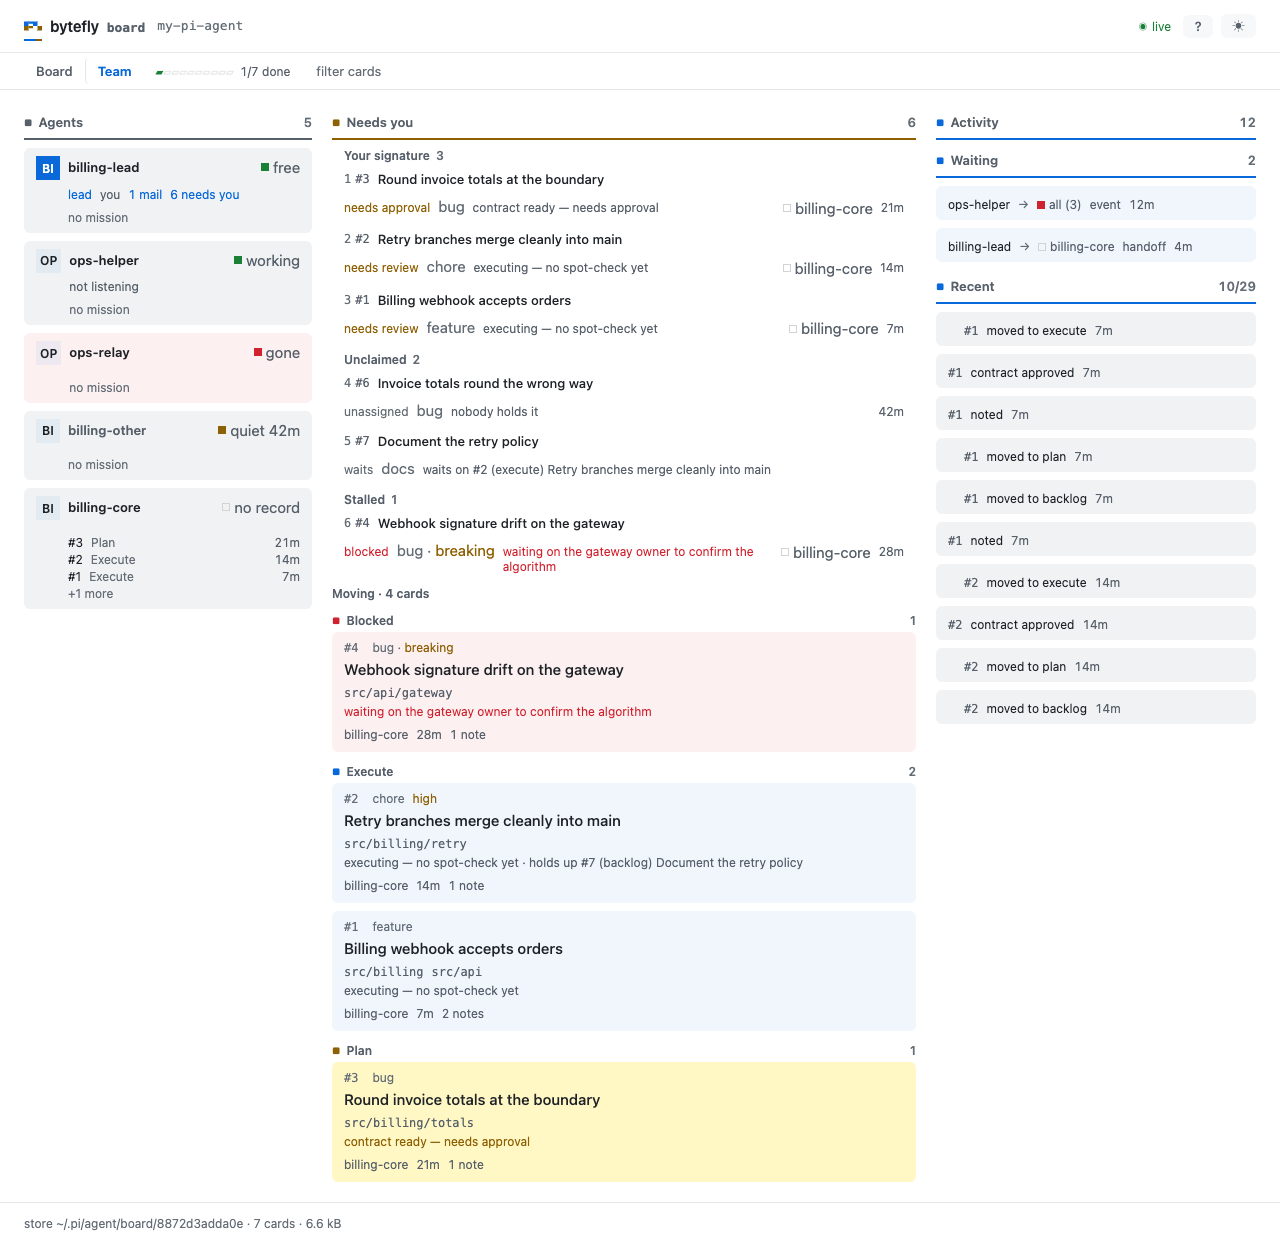
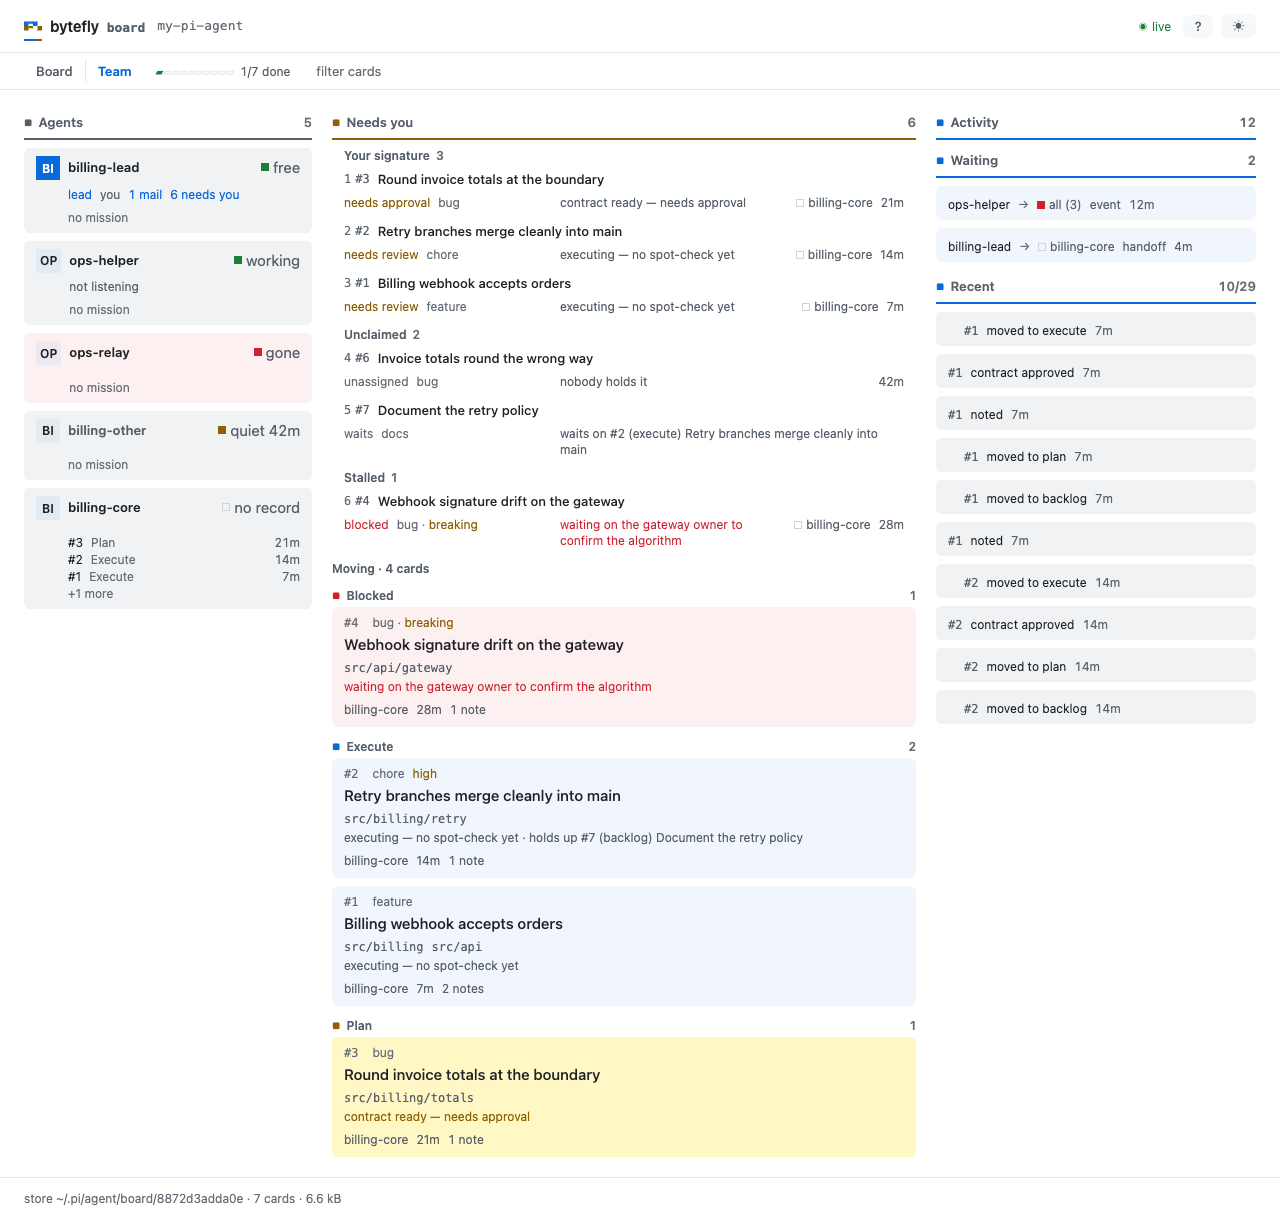
board: one type on the ask row's facts, and a column for the reason
The facts line mixed two sizes: the pill, reason and age were 12px while the kind and the owner
inherited the column's 15px/22.5, so a row carried three things at title size, its sentence was the
smallest, and a one-line row measured 43px without a kind or an owner, 51 with a kind and 52 with
one. `.board-queue__facts` sets 12px/16 itself now, and the pill and the reason take that line
height too (their font shorthand reset it, which split the rhythm again) — every one-line row is
44px whatever optional parts a card has.

The reason's left edge was a function of how wide the pill and kind happened to be: 138px apart on
two rows. They now sit in a `board-queue__labels` track of 13rem, measured from the widest pair at
12px, so the reason starts at one x; a pair wider than the track shrinks it rather than being cut,
and the reason keeps `flex:1 1 0` so it cannot wrap away from the labels' line. At ≤560 the track
drops and the reason takes a full line, where it used to clamp a 29-character sentence into 99px.

The claims live in a new suite, queue-row-facts.test.ts: one type, one height, the reason's start
within 4px at 1280 and 1440, and the full-line reason at 420. queue-bands.test.ts was already at
396 lines of the 400-line bar, so the split is the bar's answer rather than a second suite's taste.
team.png is recaptured at 1280x1220 and the alt re-read from it.

diff --git a/extensions/board/view/queue-row-facts.test.ts b/extensions/board/view/queue-row-facts.test.ts
@@ -1,0 +1,153 @@
+/**
+ * The ask row's facts line: one type, one height, and a column the reason starts at.
+ *
+ * The row review measured the fault this suite holds fixed: the pill, reason and age were 12px
+ * while the kind and the owner inherited the column's 15px, so a row had three things at title
+ * size and its sentence was the smallest; a one-line row was 43, 51 or 52px depending on which
+ * optional parts a card carried; and the reason followed a variable-width pill and kind, starting
+ * 138px apart on two rows. Everything here is computed off the page — sizes, boxes, the reason's
+ * left edge — so a stylesheet that looks right and draws wrong fails.
+ *
+ * It needs a browser; where the machine has none the suite skips, naming PI_CHROME.
+ */
+
+import { afterAll, beforeAll, describe, expect, test } from "bun:test";
+import type { Page } from "playwright-core";
+import { type Doc } from "../../../test/helpers/board-dom.ts";
+import { LEAD, seedWorkingBoard } from "../../../test/helpers/board-fixture.ts";
+import {
+	BOARD_CHROME as CHROME,
+	BOARD_PAINT_MS as PAINT_MS,
+	type BoardBrowser,
+	drawn,
+	openBoardBrowser,
+} from "../../../test/helpers/board-browser.ts";
+import { makeClock } from "../../../test/helpers/clock.ts";
+
+/** A fixed clock: the page prints ages, and a test that read the wall clock would drift. */
+const clock = makeClock(1_760_000_000_000);
+
+/** One boot and one teardown for the suite. */
+const HOOK_MS = 30_000;
+
+/** The sliver of an element this suite measures; this project's TypeScript has no DOM lib. */
+interface Boxed {
+	getBoundingClientRect(): { x: number; top: number; width: number; height: number };
+	querySelector(selector: string): Boxed | null;
+	textContent: string | null;
+	getAttribute?(name: string): string | null;
+}
+
+/** One row's facts line: the row's box, the reason's box, and every part's computed type size. */
+interface Facts {
+	card: string;
+	row: { w: number; h: number };
+	why: { x: number; w: number; h: number } | null;
+	/** Each part's font size, or absent when the card carries no such part. */
+	sizes: { pill: string; kind: string; why: string; owner: string; stamp: string };
+}
+
+/**
+ * Every row's facts line, read once.
+ *
+ * The fixture carries the shapes that used to disagree: an executing card with a type, a
+ * breaking marker and an owner; unassigned cards with no type and no owner; a blocked card with
+ * a danger reason; and a wait whose reason is long enough to clamp.
+ */
+const factsOf = (page: Page): Promise<Facts[]> =>
+	page.evaluate(() => {
+		const document = (globalThis as unknown as { document: Doc }).document;
+		const style = (globalThis as unknown as { getComputedStyle(n: unknown): { fontSize: string } }).getComputedStyle;
+		const box = (node: Boxed) => node.getBoundingClientRect();
+		const round = (value: number) => Math.round(value * 10) / 10;
+		return Array.from(document.querySelectorAll("#board-team .board-queue__row"), (node) => {
+			const row = node as unknown as Boxed;
+			const why = row.querySelector(".board-queue__why");
+			const size = (selector: string) => {
+				const found = row.querySelector(selector);
+				return found === null ? "" : style(found).fontSize;
+			};
+			return {
+				card: row.getAttribute?.("data-card") ?? "",
+				row: { w: round(box(row).width), h: round(box(row).height) },
+				why:
+					why === null ? null : { x: Math.round(box(why).x), w: Math.round(box(why).width), h: round(box(why).height) },
+				sizes: {
+					pill: size(".bf-tag"),
+					kind: size(".bf-row__kind"),
+					why: size(".board-queue__why"),
+					owner: size(".board-owner"),
+					stamp: size(".board-stamp"),
+				},
+			};
+		});
+	}) as Promise<Facts[]>;
+
+let board: BoardBrowser;
+
+describe.skipIf(CHROME === undefined)("the ask row's facts", () => {
+	beforeAll(async () => {
+		board = await openBoardBrowser({ lead: LEAD.label, now: clock.now, seed: seedWorkingBoard });
+	}, HOOK_MS);
+
+	afterAll(async () => {
+		await board?.close();
+	}, HOOK_MS);
+
+	for (const width of [1280, 1440] as const) {
+		test(`sets one type on the facts line at ${width}`, async () => {
+			const page = await board.reuse();
+			await page.click("#tab-team");
+			await page.waitForSelector("#board-team .board-queue__row", { timeout: PAINT_MS });
+			await page.setViewportSize({ width, height: 900 });
+			await drawn(page);
+			const rows = await factsOf(page);
+			expect(rows.length).toBeGreaterThan(2);
+			for (const row of rows) {
+				// Every part a card carries is the same size; a part it does not carry is absent.
+				const sizes = Object.entries(row.sizes).filter(([, size]) => size !== "");
+				expect(sizes.length, `card ${row.card}`).toBeGreaterThan(1);
+				for (const [part, size] of sizes) expect(size, `card ${row.card} ${part}`).toBe("12px");
+			}
+			// A one-line reason makes every row the same height, whatever optional parts it has:
+			// before the fix these were 43 (neither), 51 (a kind) and 52 (an owner).
+			const oneLine = rows.filter((row) => row.why !== null && row.why.h <= 16);
+			expect(oneLine.length, `one-line rows at ${width}`).toBeGreaterThan(1);
+			const heights = [...new Set(oneLine.map((row) => row.row.h))];
+			expect(heights, `one-line heights at ${width}`).toEqual([44]);
+		});
+
+		test(`starts every reason at one x at ${width}`, async () => {
+			const page = await board.reuse();
+			await page.click("#tab-team");
+			await page.waitForSelector("#board-team .board-queue__row", { timeout: PAINT_MS });
+			await page.setViewportSize({ width, height: 900 });
+			await drawn(page);
+			const xs = (await factsOf(page)).flatMap((row) => (row.why === null ? [] : [row.why.x]));
+			expect(xs.length).toBeGreaterThan(2);
+			// The labels are a track, so the sentence's left edge is a column rather than a function
+			// of how wide the pill and the kind happen to be (the spread was 138px before this).
+			expect(Math.max(...xs) - Math.min(...xs), `reason starts at ${width}`).toBeLessThanOrEqual(4);
+		});
+	}
+
+	test("gives a phone the reason a full line", async () => {
+		const page = await board.reuse();
+		await page.click("#tab-team");
+		await page.waitForSelector("#board-team .board-queue__row", { timeout: PAINT_MS });
+		await page.setViewportSize({ width: 420, height: 900 });
+		await drawn(page);
+		const rows = await factsOf(page);
+		const withReason = rows.filter((row) => row.why !== null);
+		expect(withReason.length).toBeGreaterThan(1);
+		for (const row of withReason) {
+			// The labels and the age keep the first line and the sentence takes the width beneath it,
+			// so its box is the row's width rather than the strip the labels left over.
+			expect(Math.abs((row.why?.w ?? 0) - row.row.w), `card ${row.card}`).toBeLessThanOrEqual(1);
+		}
+		// The signature row's reason is the 29-character sentence that used to clamp into two 99px
+		// lines: on its own line it is one.
+		const signature = rows.find((row) => row.sizes.kind !== "");
+		expect(signature?.why?.h ?? 0).toBeLessThanOrEqual(16);
+	});
+});

diff --git a/extensions/board/view/styles.ts b/extensions/board/view/styles.ts
@@ -339,12 +339,25 @@ ${DECISION_WHY_CSS}
 .board-queue__head .bf-row__title:hover{color:var(--accent)}
 /* The facts line: the pill, the kind, the sentence, the owner, the age. The age takes the row's
    right edge, so a column of ages survives a one-line reason. */
-.board-queue__facts{display:flex;flex-wrap:wrap;align-items:baseline;gap:var(--space-1) var(--space-2);min-width:0}
+/* The facts line is one size: the pill, the kind, the reason, the owner and the age are all 12px,
+   because the kind and the owner used to inherit the column's 15px and put three things on one row
+   at title size — while the sentence the queue exists for was the smallest. 16px is the line, so a
+   one-line row is the same height whatever optional parts a card carries. */
+.board-queue__facts{display:flex;flex-wrap:wrap;align-items:baseline;gap:var(--space-1) var(--space-2);min-width:0;font:var(--fs-xs) var(--font-ui);line-height:16px}
+/* The labels are the row's scan key and its left column: a track the width of the widest pair this
+   queue produces at 12px ("needs approval" + "feature · breaking" is about 191px), so the reason
+   starts at one x on every row instead of following whatever the pill and kind happen to measure. A
+   pair wider than the track shrinks it rather than being cut. */
+.board-queue__labels{display:flex;align-items:baseline;gap:var(--space-1) var(--space-2);flex:0 1 13rem;min-width:0}
+/* The pill and the reason set their own font shorthand, which resets line-height to normal; the
+   facts line's 16px has to reach them too, or a row with no owner is 15 instead of 16 and the
+   rhythm splits again. */
+.board-queue__facts .bf-tag,.board-queue__facts .board-queue__why{line-height:16px}
 .board-queue__facts > .board-stamp{margin-left:auto;font:var(--fs-xs) var(--font-ui)}
 /* The sentence is bounded to two lines: it is the row's reason, not its content, and one 400-char
    chain of blockers drew five. The whole of it is on the hover and in the description the title
    points at; a browser without the clamp prints it whole — height lost, never words. */
-.board-queue__why{display:-webkit-box;-webkit-box-orient:vertical;-webkit-line-clamp:2;overflow:hidden;flex:1 1 12ch;min-width:0;margin:0;color:var(--muted);font:var(--fs-xs) var(--font-ui)}
+.board-queue__why{display:-webkit-box;-webkit-box-orient:vertical;-webkit-line-clamp:2;overflow:hidden;flex:1 1 0;min-width:0;margin:0;color:var(--muted);font:var(--fs-xs) var(--font-ui)}
 /* MOVING — the board's own card, in a lane one column narrower: the shape, the paper and the
    order come from the lane rules above, so this column is the board at a glance. */
 .board-team__lanes{display:flex;flex-direction:column;gap:var(--space-3);min-width:0}
@@ -465,6 +478,11 @@ ${DIALOG_TONE_CSS}
   /* The id keeps its line and the title keeps its whole text: the head does not wrap, so a short
      name sits beside the number and a long one wraps inside its own box. */
   .board-queue__head{align-items:baseline}
+  /* A phone has no room for a track: the labels and the age keep the first facts line, and the
+     reason takes the width beneath it — a 29-character sentence reads instead of clamping into the
+     strip the labels would leave it. */
+  .board-queue__labels{flex:1 1 auto}
+  .board-queue__why{flex:1 1 100%}
   .board-queue__head .bf-row__title{white-space:normal}
   .board-queue__facts > .board-owner{display:none}
 }

diff --git a/test/wait-budget.test.ts b/test/wait-budget.test.ts
@@ -89,14 +89,14 @@ function hookOffence(path: string, line: number, budget: number | undefined): st
  *
  * A scan for the launcher cannot be trusted to be complete — a suite may import
  * `openBoardBrowser` under another name, or reach Chromium through a helper of its own — so
- * this is an exact set, the way `ROOT_TEST_FILES` is: a new browser suite is added here and
- * the rule below covers it, and a path that is no longer a test, or no longer boots a
- * browser, fails as stale.
+ * this is an exact set, the way `ROOT_TEST_FILES` is: a new browser suite is added here and the
+ * rule below covers it, and a path no longer a test, or no longer booting a browser, fails as stale.
  */
 const BROWSER_SUITES = [
 	"extensions/board/view/behaviour.test.ts",
 	"extensions/board/view/filter-behaviour.test.ts",
 	"extensions/board/view/queue-bands.test.ts",
+	"extensions/board/view/queue-row-facts.test.ts",
 	"extensions/board/view/repaint.test.ts",
 	"extensions/plan/web-behaviour.test.ts",
 	"extensions/plan/web-live.test.ts",

diff --git a/extensions/board/view/active.ts b/extensions/board/view/active.ts
@@ -245,12 +245,14 @@ __LABEL_KEY__
     head.appendChild(title);
     row.appendChild(head);
     var facts = el("div", N.queueFacts);
-    facts.appendChild(whyPill(entry));
+    var labels = el("div", N.queueLabels);
+    labels.appendChild(whyPill(entry));
     // What the card is, in the label the face and the record wear: it leaves the title's line,
     // where it cost the room an 80-character title needs, and a breaking change keeps the word a
     // decision must not hide.
     var kind = kindLabel(card);
-    if (kind !== undefined) facts.appendChild(kind);
+    if (kind !== undefined) labels.appendChild(kind);
+    facts.appendChild(labels);
     // The row's own sentence, always: the head names the move, the row says why it is here, and
     // the title is described by the line under it.
     var meta = el("p", N.queueWhy);

diff --git a/extensions/board/view/names.ts b/extensions/board/view/names.ts
@@ -113,6 +113,8 @@ export const BOARD_CLASS = {
 	// the owner and the age, under the title they belong to.
 	queueHead: "board-queue__head",
 	queueFacts: "board-queue__facts",
+	// The pill and the kind as one track: the row's scan key, and the column the reason starts after.
+	queueLabels: "board-queue__labels",
 	queueWhy: "board-queue__why",
 	// The label over the swimlanes, which count moving cards rather than asks.
 	queueMoving: "board-queue__moving",

diff --git a/test/suite-manifest.ts b/test/suite-manifest.ts
@@ -110,6 +110,7 @@ export const EXTENSION_SUITES: Record<string, readonly string[]> = {
 		"view/team",
 		"view/team-mail",
 		"view/queue-bands",
+		"view/queue-row-facts",
 	],
 	context: ["report", "view/context-report", "extension"],
 	"file-read": ["extract/extract", "tool"],

diff --git a/docs/extensions/team.md b/docs/extensions/team.md
@@ -7,7 +7,7 @@ listening with `wake` is woken for it ([`session-bus`](session-bus.md) owns that
 A card's own state — `claim`, `reclaim`, the moves, the contract, the two signs — is
 [`board`](board.md)'s. What outlives the round is the project's [`memory`](memory.md) store.
 
-<img src="../../assets/screens/team.png" alt="The Team tab as three columns: AGENTS with the lead pinned first and one card per session carrying a monogram, its state, its mail and its missions; NEEDS YOU as one column of three bands — YOUR SIGNATURE, UNCLAIMED and STALLED — where each ask is a title line with its pill, kind, reason, owner and age under it, over a Moving label and the BLOCKED, EXECUTE and PLAN swimlanes; ACTIVITY with WAITING mail and a RECENT rail" width="1280" height="1245">
+<img src="../../assets/screens/team.png" alt="The Team tab as three columns: AGENTS with the lead pinned first and one card per session carrying a monogram, its state, its mail and its missions; NEEDS YOU as one column of three bands — YOUR SIGNATURE, UNCLAIMED and STALLED — where each ask is a title line with its pill, kind, reason, owner and age under it, over a Moving label and the BLOCKED, EXECUTE and PLAN swimlanes; ACTIVITY with WAITING mail and a RECENT rail" width="1280" height="1220">
 
 The board's Team tab is the same round as a page, in three columns that each count themselves and
 scroll as one. **AGENTS** holds a card per session, the lead pinned first: a monogram, its state

diff --git a/CHANGELOG.md b/CHANGELOG.md
@@ -6,6 +6,14 @@ to [Semantic Versioning](https://semver.org/spec/v2.0.0.html).
 
 ## [Unreleased]
 
+- `board`: the Needs you ask row's facts line is one type size. The kind and the owner were inheriting
+  the column's 15px/22.5 in a line whose pill, reason and age are 12px, so a row carried three things
+  at title size, its sentence was the smallest, and a one-line row was 43px without a kind or an
+  owner, 51 with a kind and 52 with one. `.board-queue__facts` sets 12px/16 itself now, so every
+  one-line row is 44px; the pill and the kind sit in a 13rem track so the reason starts at one x
+  instead of 138px apart on two rows; and at a phone the reason takes a full line rather than the
+  99px strip the labels left it.
+
 - `board`: the Needs you queue is one head over one column of asks, and every row says its own reason.
   The `ACTIVE WORK` caption and the pane's `NEEDS YOU` head were two counts of different things —
   four cards, six asks — so one caption counts the asks and carries the filtered `0 of 6`, while the
